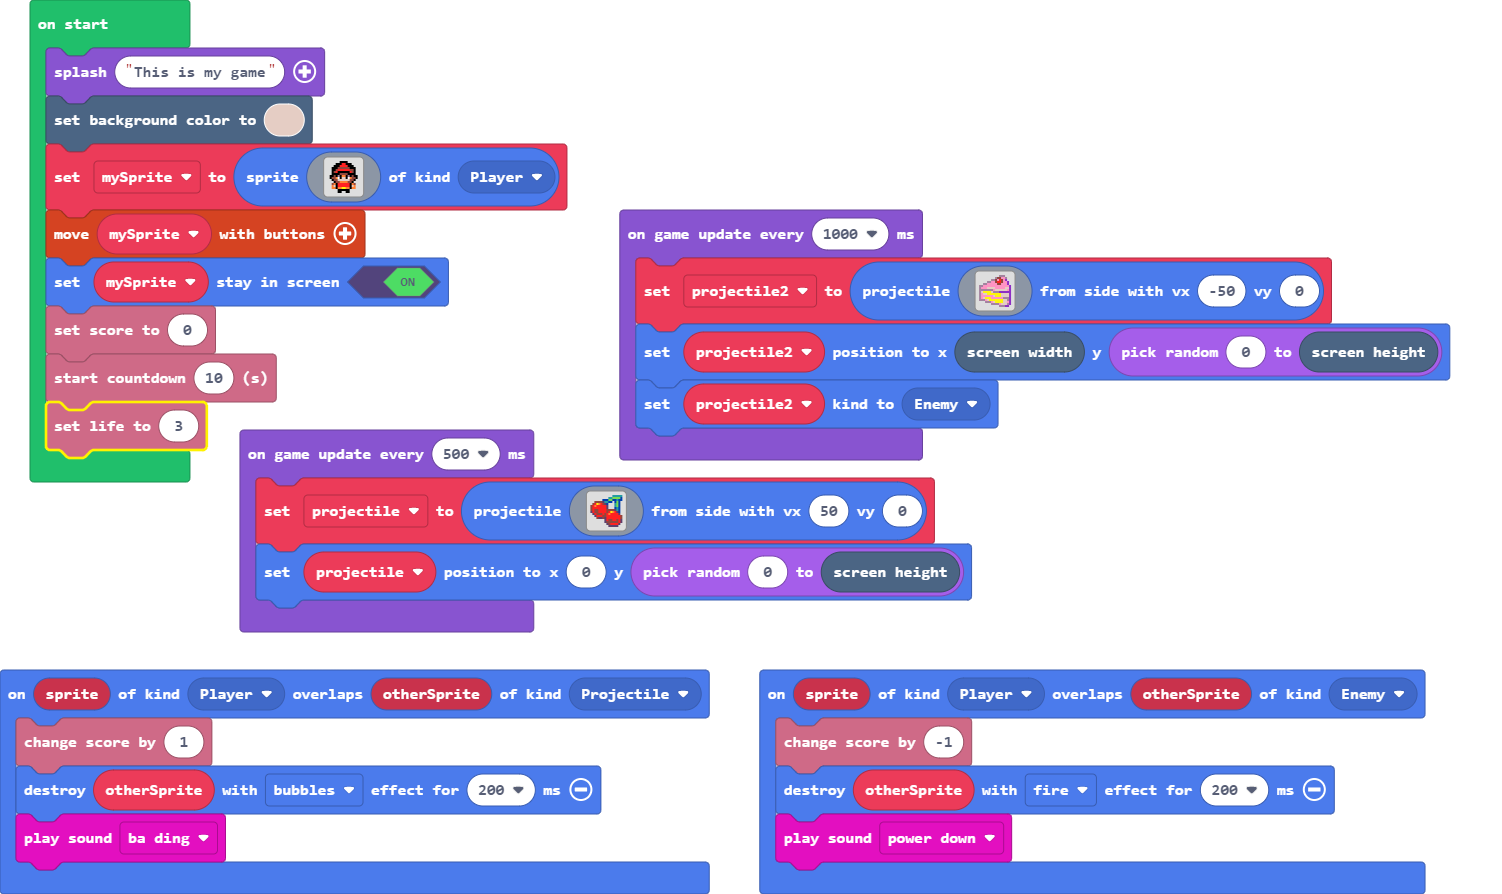
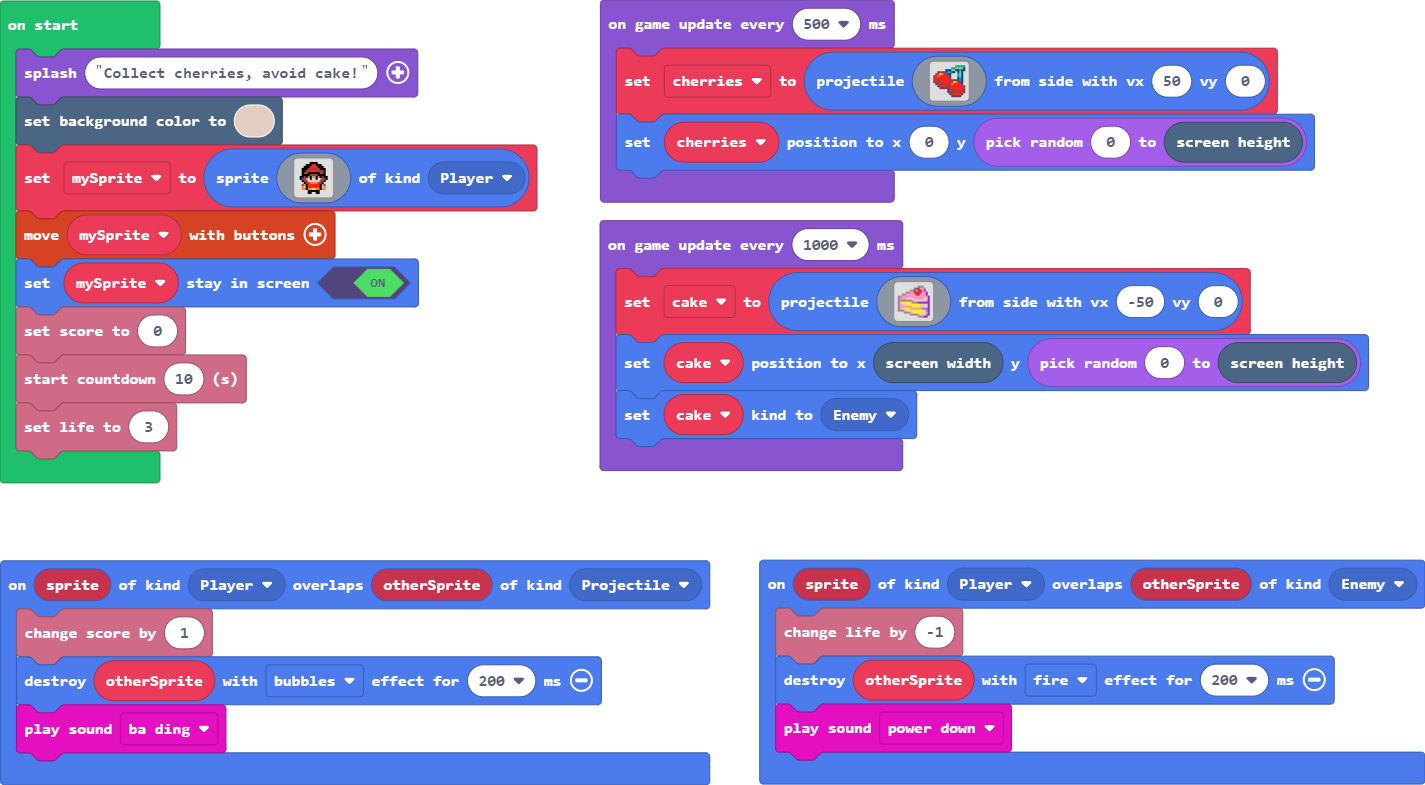
Update pxt.json, main.blocks, main.ts

diff --git a/main.ts b/main.ts
@@ -4,13 +4,13 @@ sprites.onOverlap(SpriteKind.Player, SpriteKind.Projectile, function (sprite, ot
     music.baDing.play()
 })
 sprites.onOverlap(SpriteKind.Player, SpriteKind.Enemy, function (sprite, otherSprite) {
-    info.changeScoreBy(-1)
+    info.changeLifeBy(-1)
     otherSprite.destroy(effects.fire, 200)
     music.powerDown.play()
 })
-let projectile: Sprite = null
-let projectile2: Sprite = null
-game.splash("This is my game")
+let cherries: Sprite = null
+let cake: Sprite = null
+game.splash("Collect cherries, avoid cake!")
 scene.setBackgroundColor(13)
 let mySprite = sprites.create(img`
     . . . . . . f f f f . . . . . . 
@@ -36,7 +36,7 @@ info.setScore(0)
 info.startCountdown(10)
 info.setLife(3)
 game.onUpdateInterval(1000, function () {
-    projectile2 = sprites.createProjectileFromSide(img`
+    cake = sprites.createProjectileFromSide(img`
         . . . . . . . . . . b b b . . . 
         . . . . . . . . b e e 3 3 b . . 
         . . . . . . b b e 3 2 e 3 a . . 
@@ -54,11 +54,11 @@ game.onUpdateInterval(1000, function () {
         . . . . . . b b b b 3 d d d b a 
         . . . . . . . . . . b b b a a . 
         `, -50, 0)
-    projectile2.setPosition(scene.screenWidth(), randint(0, scene.screenHeight()))
-    projectile2.setKind(SpriteKind.Enemy)
+    cake.setPosition(scene.screenWidth(), randint(0, scene.screenHeight()))
+    cake.setKind(SpriteKind.Enemy)
 })
 game.onUpdateInterval(500, function () {
-    projectile = sprites.createProjectileFromSide(img`
+    cherries = sprites.createProjectileFromSide(img`
         . . . . . . . . . . . 6 6 6 6 6 
         . . . . . . . . . 6 6 7 7 7 7 8 
         . . . . . . 8 8 8 7 7 8 8 6 8 8 
@@ -76,5 +76,5 @@ game.onUpdateInterval(500, function () {
         . . . . . . . . c e 2 2 2 2 c . 
         . . . . . . . . . c c c c c . . 
         `, 50, 0)
-    projectile.setPosition(0, randint(0, scene.screenHeight()))
+    cherries.setPosition(0, randint(0, scene.screenHeight()))
 })
